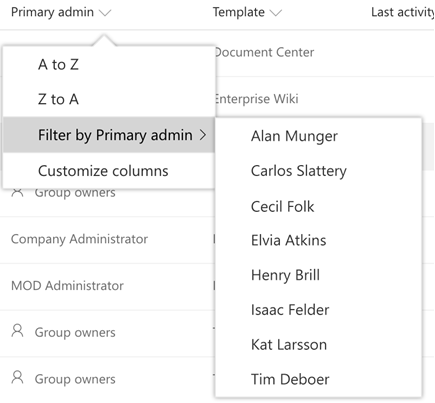
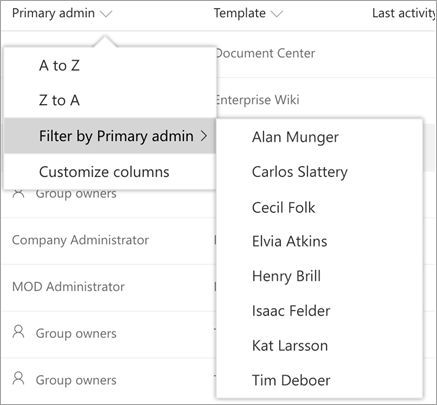
Active sites page updates

diff --git a/SharePoint/SharePointOnline/manage-sites-in-new-admin-center.md b/SharePoint/SharePointOnline/manage-sites-in-new-admin-center.md
@@ -25,16 +25,18 @@ description: "In this article, you'll learn about tasks you can perform on the A
 
 # Manage sites in the new SharePoint admin center
 
-The [Active sites page](https://admin.microsoft.com/sharepoint?page=siteManagement&modern=true) of the new SharePoint admin center lets you view the SharePoint sites in your organization (including the new communication sites and sites that belong to Microsoft 365 groups). It also lets you sort and filter sites, search for a site, and create new sites.
+The [Active sites page](https://admin.microsoft.com/sharepoint?page=siteManagement&modern=true) of the new SharePoint admin center lets you view the SharePoint sites in your organization (including communication sites and sites that belong to Microsoft 365 groups). It also lets you sort and filter sites, search for a site, and create new sites.
   
-![Manage sites in the new SharePoint admin center](media/2a18e27e-47ba-4370-8d91-cb6d75d746b5.png)
+![Active sites page](media/active-sites-page.png)
   
 > [!NOTE]
 > The Active sites page lists the root website for each site collection. Subsites, redirect sites (REDIRECTSITE#0) created by changing a site address or replacing the root site, and Microsoft Teams private channel sites (TEAMCHANNEL#0) aren't included in the list. <br>Some functionality is introduced gradually to organizations that have opted in to the [Targeted release option in Microsoft 365](/office365/admin/manage/release-options-in-office-365). This means that you might not yet see some features described in this article, or they might look different. 
  
-For more info about managing sites and storage, see:
+For more info about tasks on the Active sites page, see:
 
-- [Create a site](create-site-collection.md)  
+- [Create a site](create-site-collection.md)
+- [Register a site as a hub site](create-hub-site.md) and [Unregister a site as a hub site](remove-hub-site.md)
+- [Turn external sharing on or off for for a site](change-external-sharing-site.md)  
 - [Delete a site](delete-site-collection.md)
 - [Manage site storage limits](manage-site-collection-storage-limits.md)
   
@@ -52,30 +54,18 @@ For more info about managing sites and storage, see:
     
 2. Select **Hub**. The options that appear depend on whether the site you selected is registered as a hub site, or associated with a hub. The Hub menu lets you register a site as a hub site, associate it with a hub, change its hub association, and unregister it as a hub site. [More info about hubs](planning-hub-sites.md) 
 
-## Change the external sharing setting for a site
-<a name="changesitesharing"> </a>
-  
-1. In the left column, select a site.
-    
-2. Select **Sharing**.
-    
-3. Select an option, and then select **Save**. For info about the options, see [Turn external sharing on or off for for a site](change-external-sharing-site.md).
-    
-    > [!NOTE]
-    > The options that are available depend on the organization-wide setting you've selected. The setting for a site can be more restrictive, but not more permissive. 
-
 ## View site details
 <a name="viewsitedetails"> </a>
 
 For more info about a site, select the site name to open the details panel.
   
-![The General tab of the details panel](media/d0ddbc56-328e-42fb-b143-3faa14799fac.PNG)
+![The General tab of the details panel](media/general-tab-details-panel.png)
   
 To view site activity including the number of files stored and storage usage, select the **Activity** tab. Activity information is not available for Office 365 Germany customers and US Government GCC High and DoD customers.
   
 To view site admins, owners, members, and visitors, select the **Permissions** tab.
 
-![The Permissions tab of the details panel](media/addeb5ec-cfc7-4d0c-a789-7eeeabdea67c.PNG)
+![The Permissions tab of the details panel](media/permissions-tab-details-panel.png)
   
 For info about the roles in this panel, see [About site permissions](site-permissions.md).
     
@@ -90,7 +80,7 @@ Sorting and filtering the site list is just like sorting and filtering other lis
     
     If the column allows filtering, a "Filter by" option appears. Select the value or values that you want to show. Your selections appear with a check mark beside them. To remove a selection, select that value again. To clear all filters on the column, select **Clear filters**.
     
-    ![Filter options for the Template column](media/0d188752-2bce-4d69-9cf4-a16ab87a2892.PNG)
+    ![Filter options for the Primary admin column](media/0d188752-2bce-4d69-9cf4-a16ab87a2892.PNG)
 
 ## Customize columns
 <a name="customizecolumns"> </a>
@@ -101,7 +91,7 @@ Sorting and filtering the site list is just like sorting and filtering other lis
     
 3. To rearrange the columns, point to a column, and select the up or down arrow to move the column up or down.
     
-    ![Show, hide, and rearrange columns on the Active sites page](media/d713dbd8-2ac7-428c-a5b9-b5bd673ce674.PNG)
+    ![The Customize columns panel](media/customize-columns-panel.png)
     
     > [!NOTE]
     > Data in the following columns is not available for Office 365 Germany customers and US Government GCC High and DoD customers:
@@ -115,22 +105,41 @@ Sorting and filtering the site list is just like sorting and filtering other lis
 ## Switch views and create custom views
 <a name="views"> </a>
 
-The new SharePoint admin center comes with a few built-in views: Microsoft 365 group sites, Sites without a group, Largest sites, Least active sites, and Most popular shared sites. You can also create and save custom views.
+The new SharePoint admin center comes with a few built-in views: All sites, Sites connected to Teams, Microsoft 365 group sites, Sites without a group, Classic sites, Largest sites, Least active sites, and Most popular shared sites. 
+
+To select a different view:
+
+- On the far right of the command bar, select the **Change view** arrow next to the name of your current view, and then select a different view.
+
+    ![The list of views](media/view-menu.png)
+
+To create and save a custom view:
   
 1. Customize columns, sort, and filter your view the way you want. (Views that are filtered through search can't be saved.)
     
-2. On the far right of the command bar, next to the Search box, select the **View** menu (the name changes depending on your current view).
-
-    ![The View menu](media/view-menu.PNG)
+2. On the far right of the command bar, select the **Change view** arrow next to the name of your current view.
     
 3. Select **Save view as**.
     
 4. In the **Save as** dialog box, enter a name for the view. 
     
     > [!NOTE]
-    > To set the view as default, in the **View** box, select **Set current view as default**. 
+    > To set the view as default, in the list of views, select **Set current view as default**. 
   
-  
+## Track a view
+
+When you select a built-in or custom view, you can add a card to your home page that shows the number of sites in the view and summarizes info about the set of sites. 
+
+1. Select the **Change view** arrow, and then select the view you want to track.
+2. Select **Track view**.
+3. Select **Add card**.
+4. Go to your home page to see the card for the tracked view.
+
+    ![A tracked view card](media/tracked-view.png)
+
+> [!NOTE]
+> If you remove a tracked view card from your home page, you can't add it back from the Add cards panel. YOu need to open the view on the Active sites page and select **Track view**.
+
 ## Search for a site
 <a name="search"> </a>
 

diff --git a/SharePoint/SharePointOnline/get-started-new-admin-center.md b/SharePoint/SharePointOnline/get-started-new-admin-center.md
@@ -90,13 +90,13 @@ This card shows the usage of each Microsoft 365 service. To view the full report
 
 ## Customize your dashboard
 
-To add available cards that aren't already on the dashboard, select **Add cards**. Tap or click a card to add it to the page, or drag it to a specific location on the page. 
+- To add available cards that aren't already on the dashboard, select **Add cards**. Tap or click a card to add it to the page, or drag it to a specific location on the page. 
 
-  ![The Add cards panel](media/add-cards.png)
+    ![The Add cards panel](media/add-cards.png)
 
-To remove a card, select More actions (...), and then select **Remove**.
+- To remove a card, select More actions (...), and then select **Remove**.
 
-To move a card to a different location on the page, drag the card title.
+- To move a card to a different location on the page, drag the card title.
 
   
 ## Customize the navigation pane
